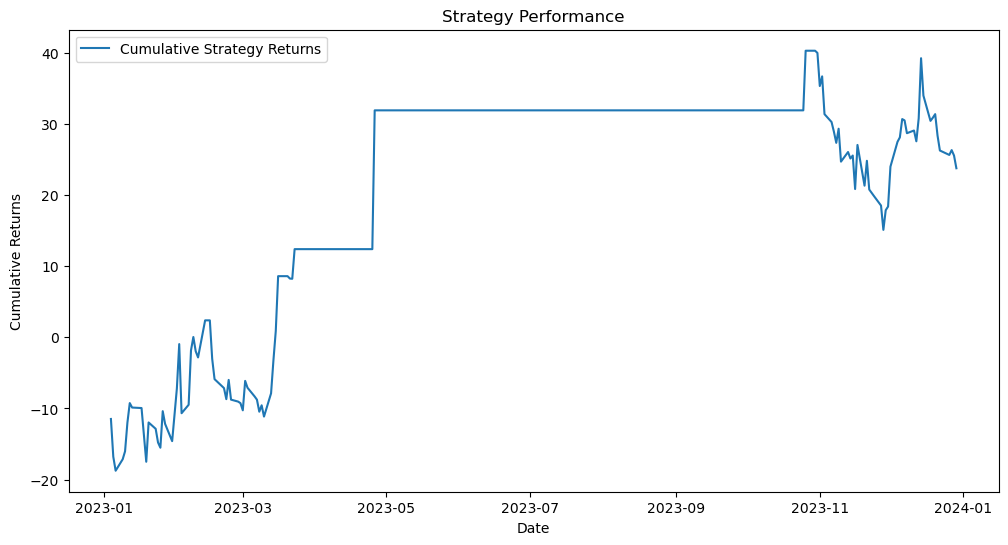
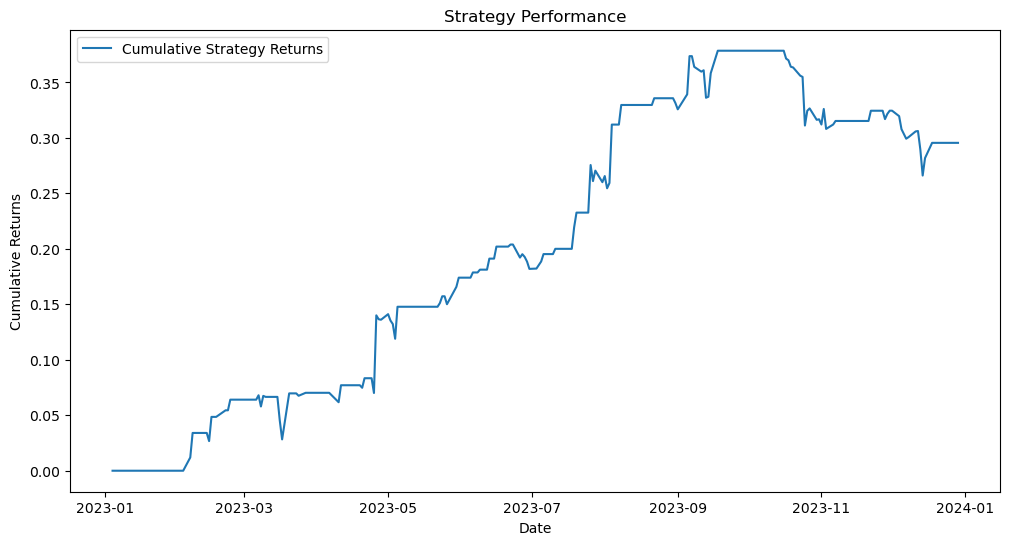
Fix look-ahead bias and improve backtest with log spread and returns

diff --git a/src/utils.py b/src/utils.py
@@ -1,20 +1,9 @@
 import pandas as pd
 
-def compute_zscore(series: pd.Series) -> pd.Series:
-    """
-    Compute the z-score of a pandas Series.
-
-    Parameters
-    ----------
-    series : pd.Series
-        Input time series (e.g. spread between two assets)
-
-    Returns
-    -------
-    pd.Series
-        Z-score normalized series
-    """
-    mean = series.mean()
-    std = series.std()
-    zscore = (series - mean) / std
+def compute_zscore(series: pd.Series, window: int = 20) -> pd.Series:
+    rolling_mean = series.rolling(window).mean()
+    rolling_std = series.rolling(window).std(ddof=0)
+    
+    zscore = (series - rolling_mean) / rolling_std
+    
     return zscore
